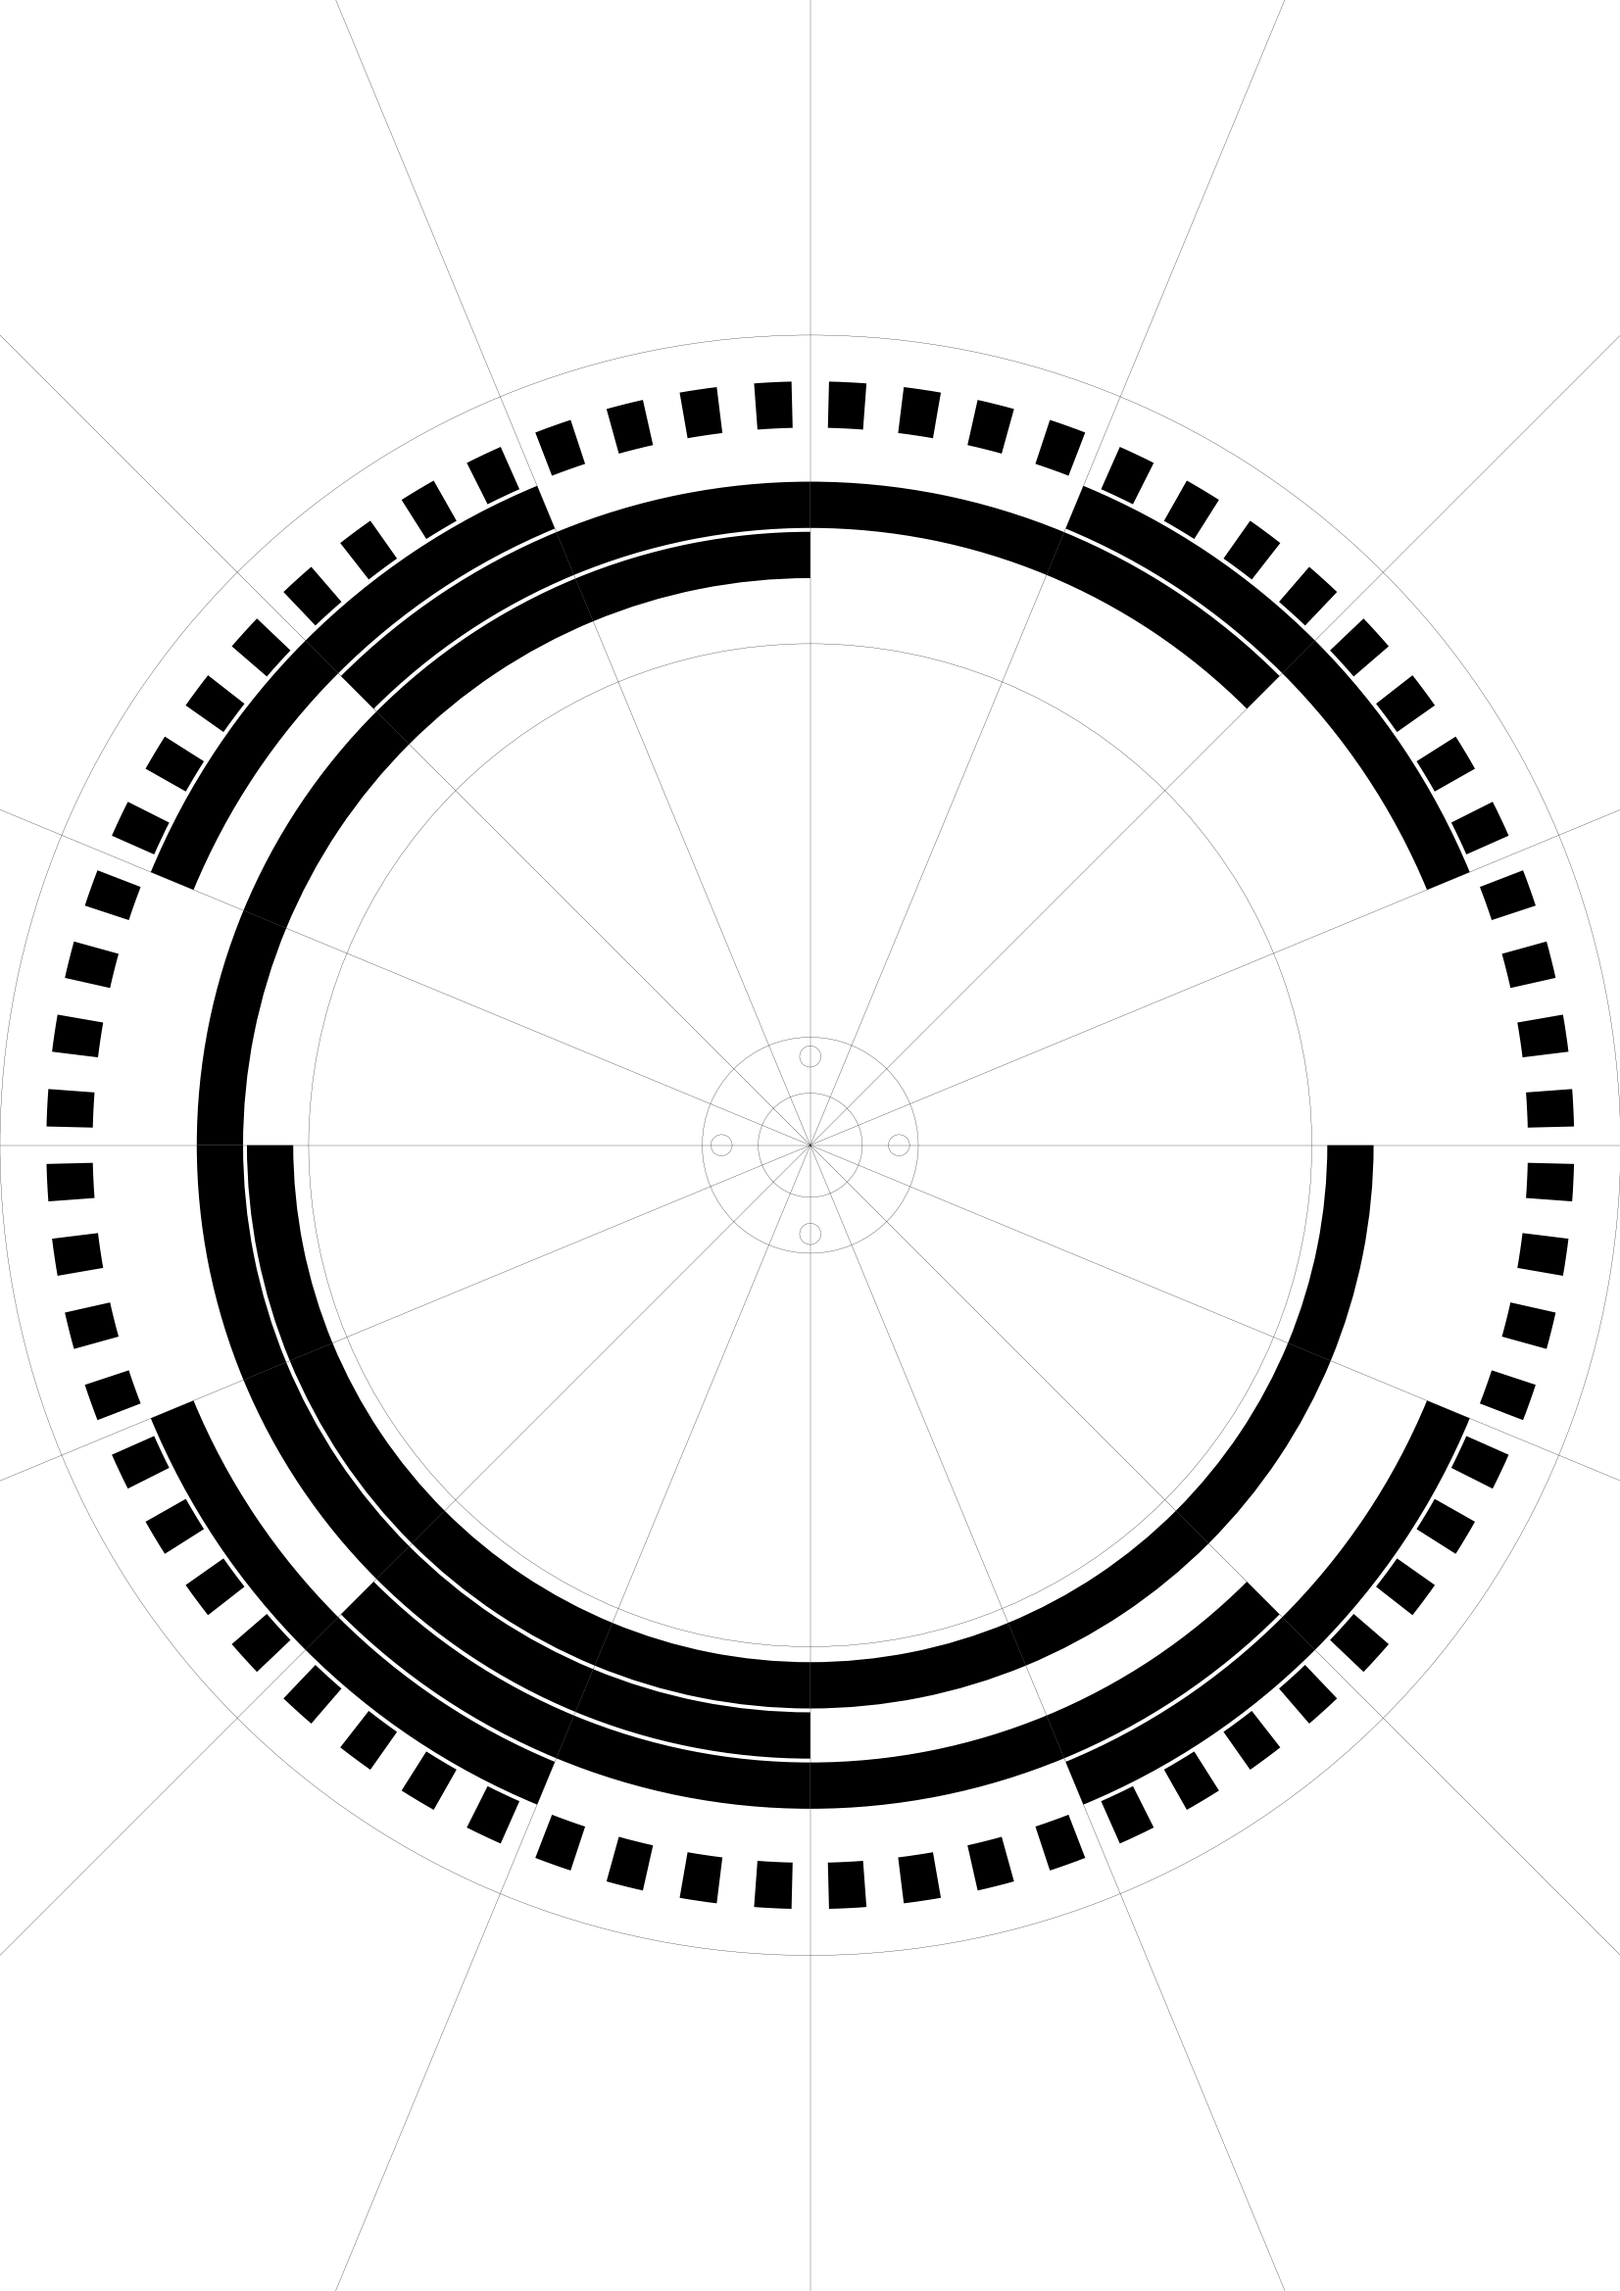
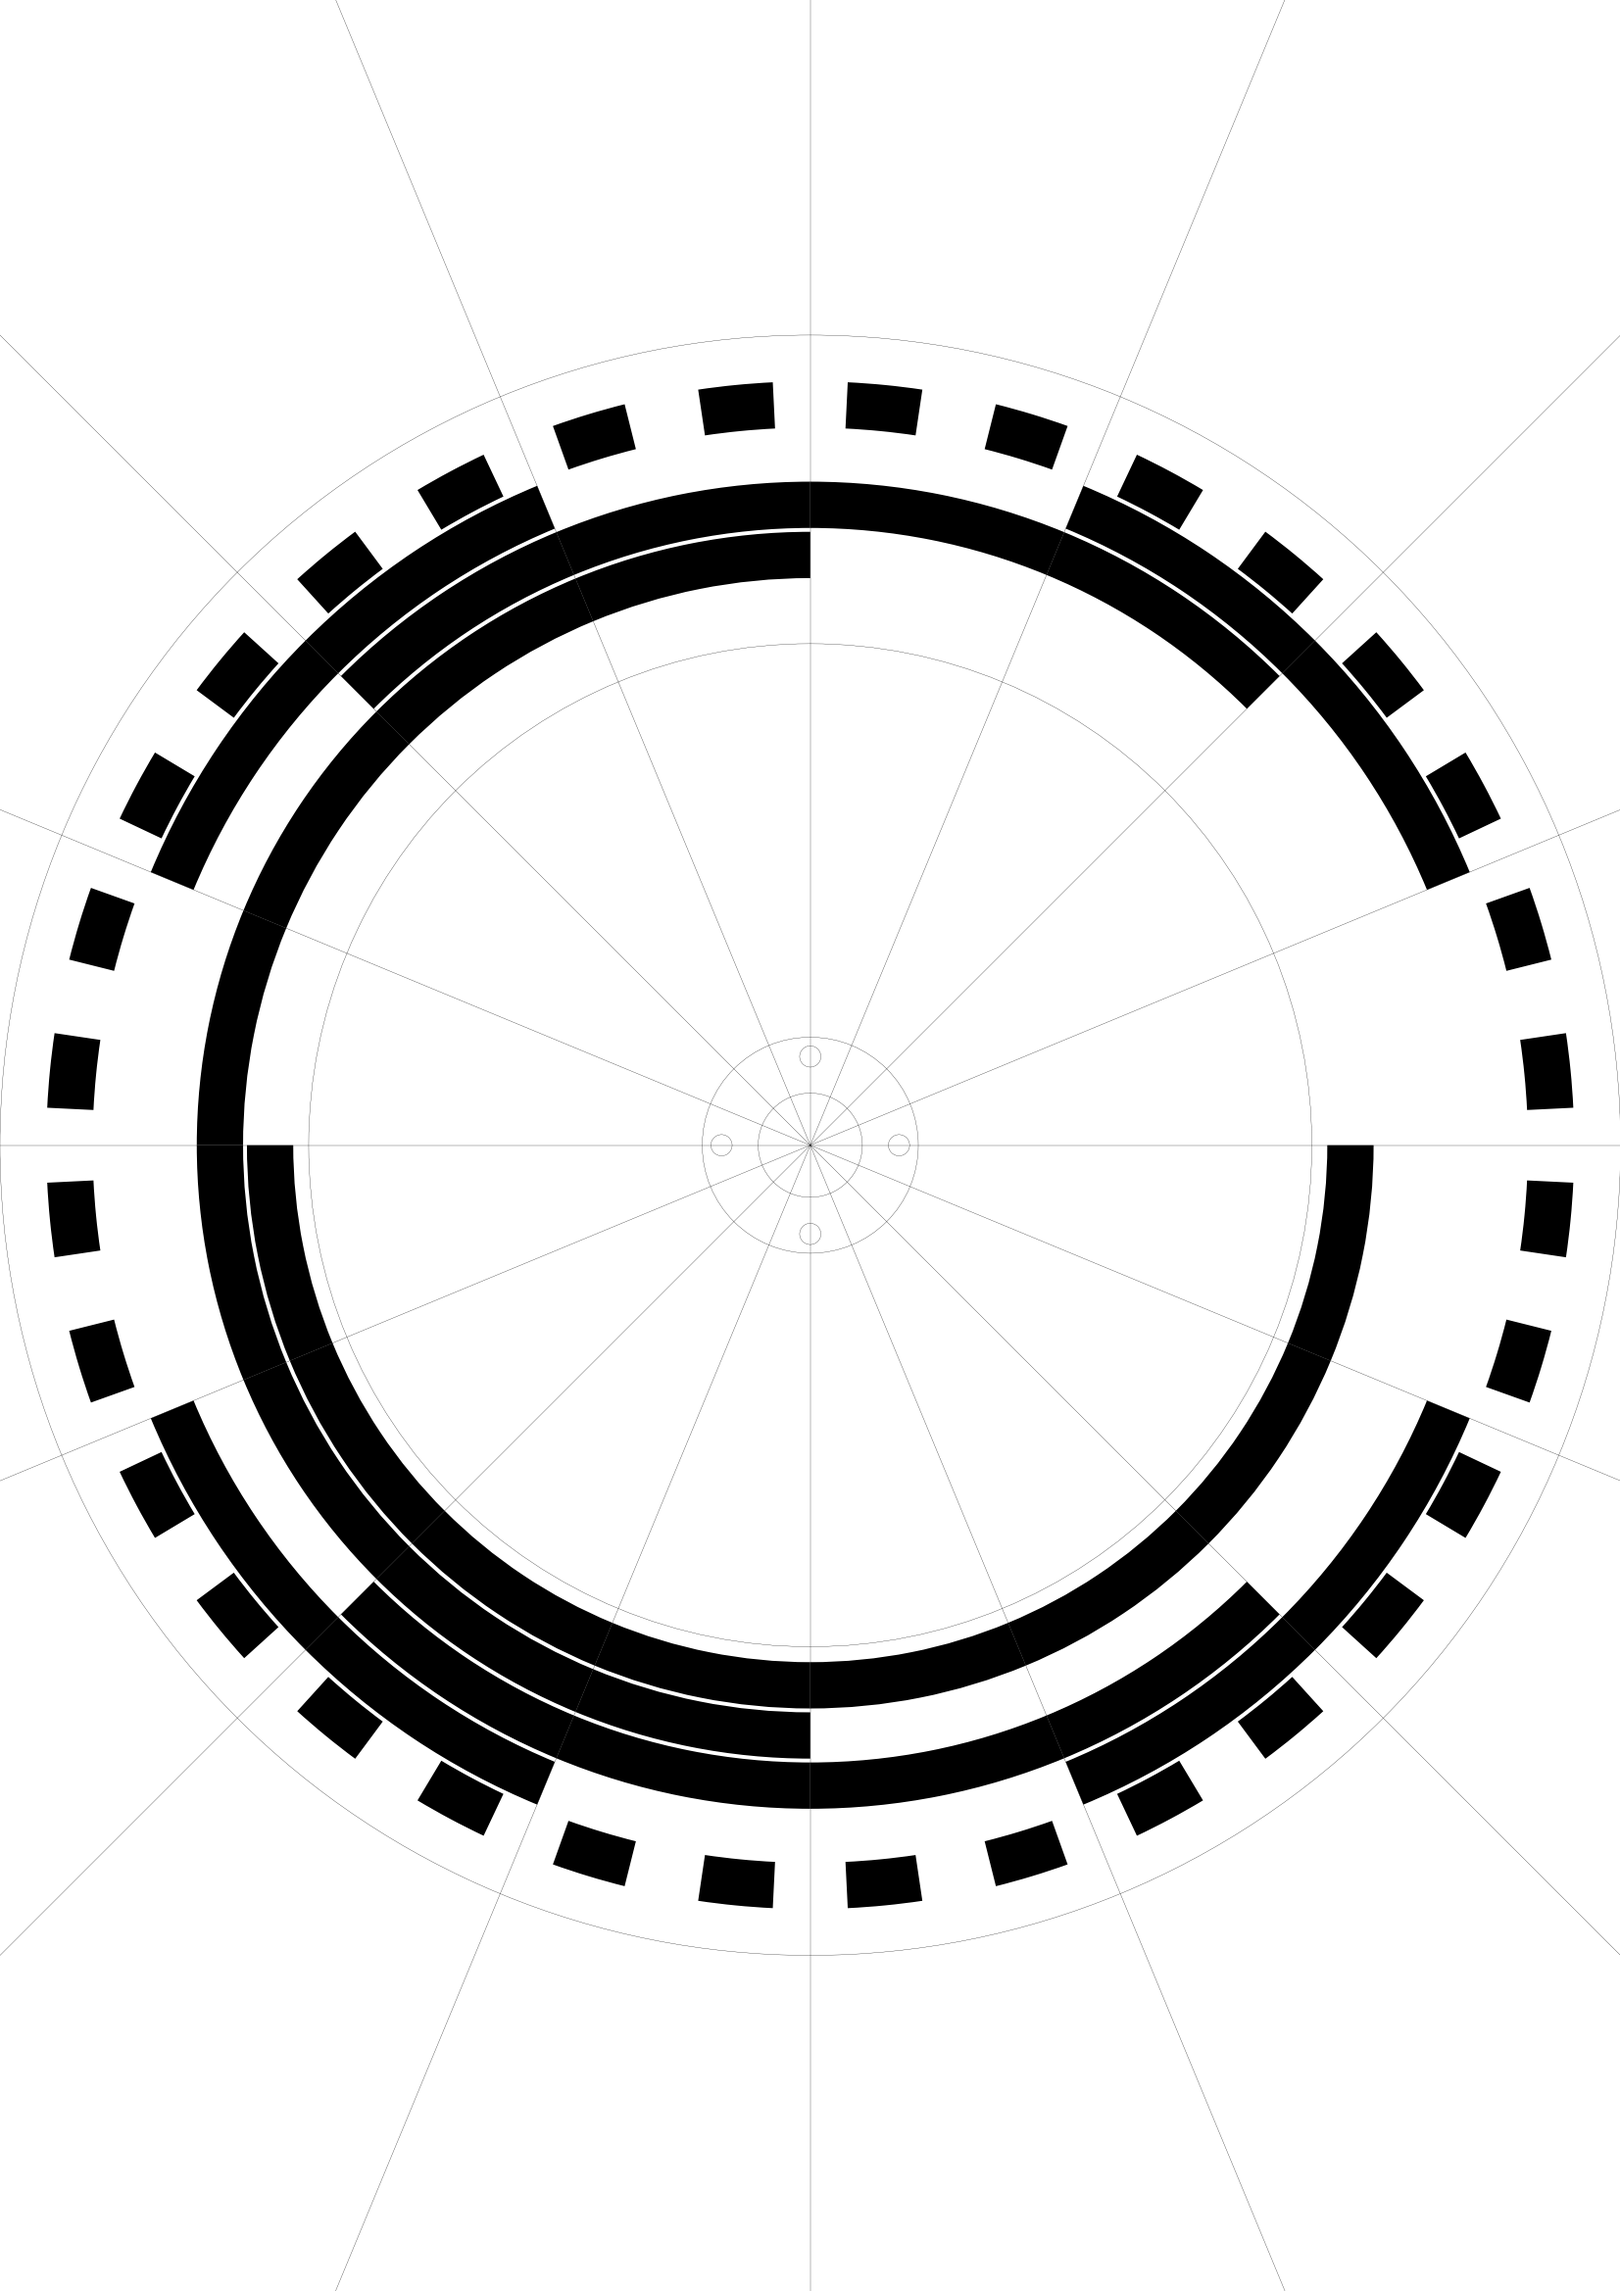
less frequent pattern

Changed region(s): [[0.1234, 0.1561, 0.9873, 0.843], [0.0309, 0.3122, 0.1234, 0.6869]]

diff --git a/hw/mech/wheel/encoder_pattern/pattern_gen.py b/hw/mech/wheel/encoder_pattern/pattern_gen.py
@@ -30,7 +30,7 @@ if __name__ == "__main__":
             )
 
     # Speed
-    n_sectors = 128
+    n_sectors = 64
     r_center = r0 + 4 * dr
     r = r_center + 0.5 * dr - 0.5 * pad_r
     width = dr - pad_r
